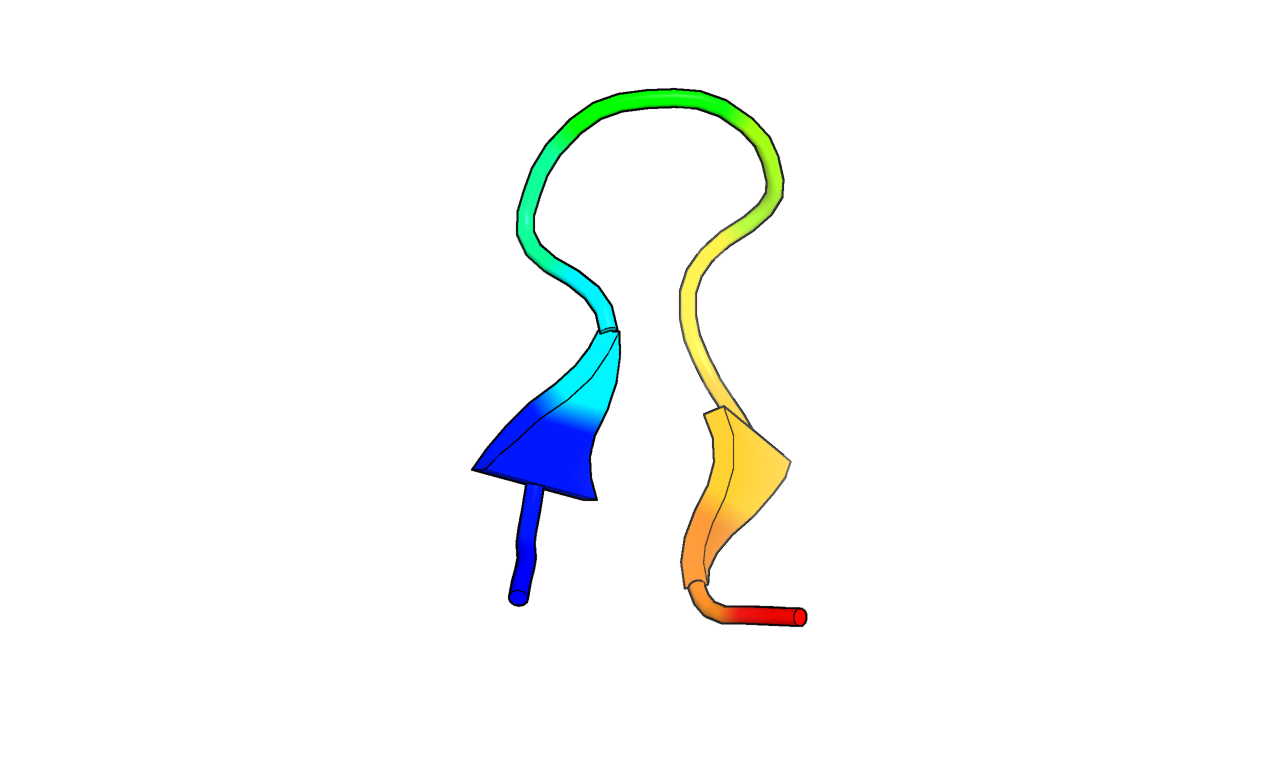
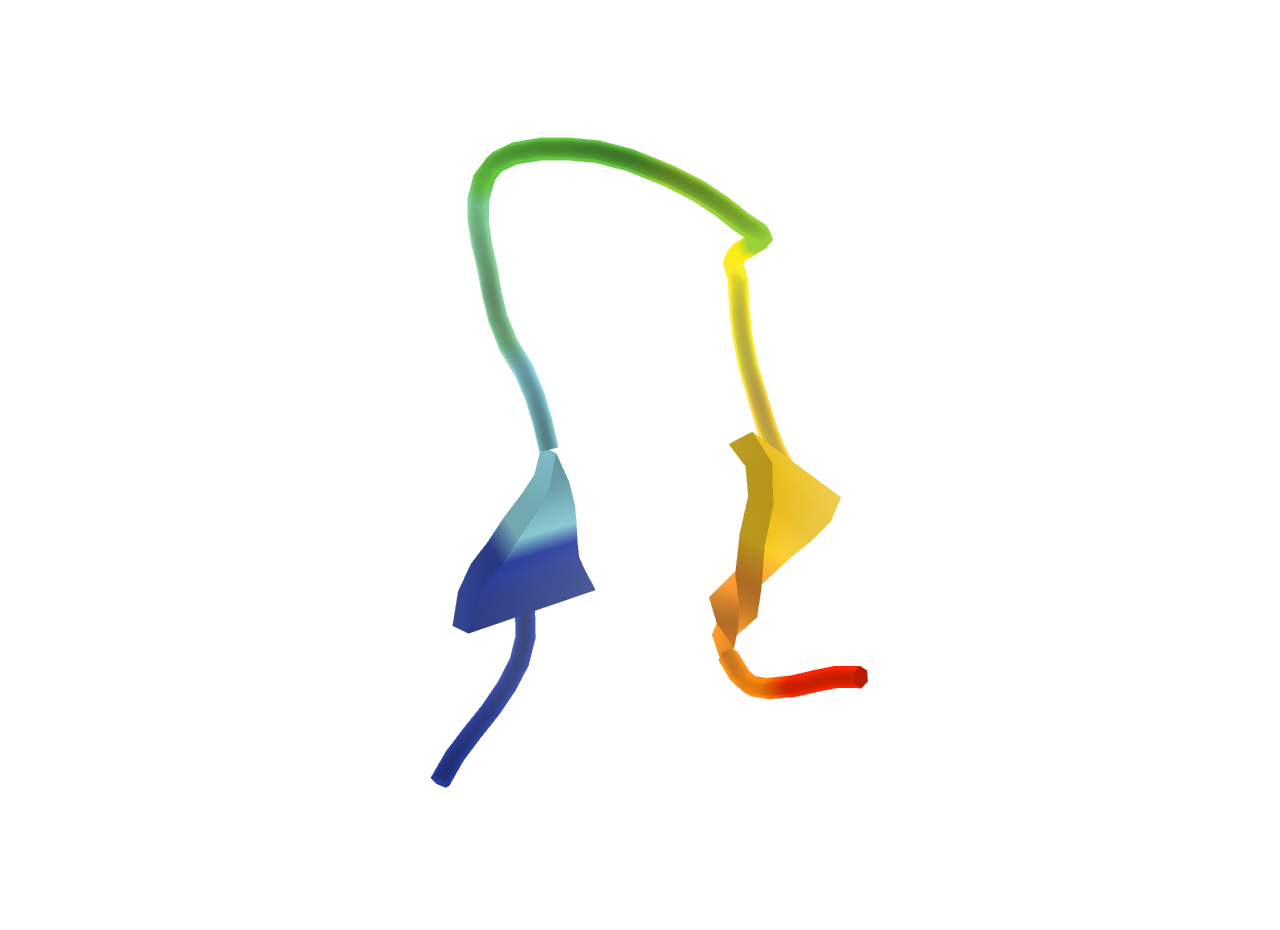
docs: update folding stability figures with villin
Replace the orexin-beta figure with the villin headpiece and refresh the
TRP-cage and chignolin renders with the latest images from Silvia.

Changed region(s): [[0.3125, 0.0935, 0.6875, 0.8416]]

diff --git a/docs/source/benchmarks/biomolecules/folding_stability/index.rst b/docs/source/benchmarks/biomolecules/folding_stability/index.rst
@@ -53,9 +53,9 @@ They have the following IDs:
           :figclass: align-center
 
           Chignolin (PDBid: 1UAO)
-     - .. figure:: ../img/1cq0.png
+     - .. figure:: ../img/villin.png
           :width: 100%
           :align: center
           :figclass: align-center
 
-          Orexin-beta (PDBid: 1CQ0)
+          Villin headpiece
